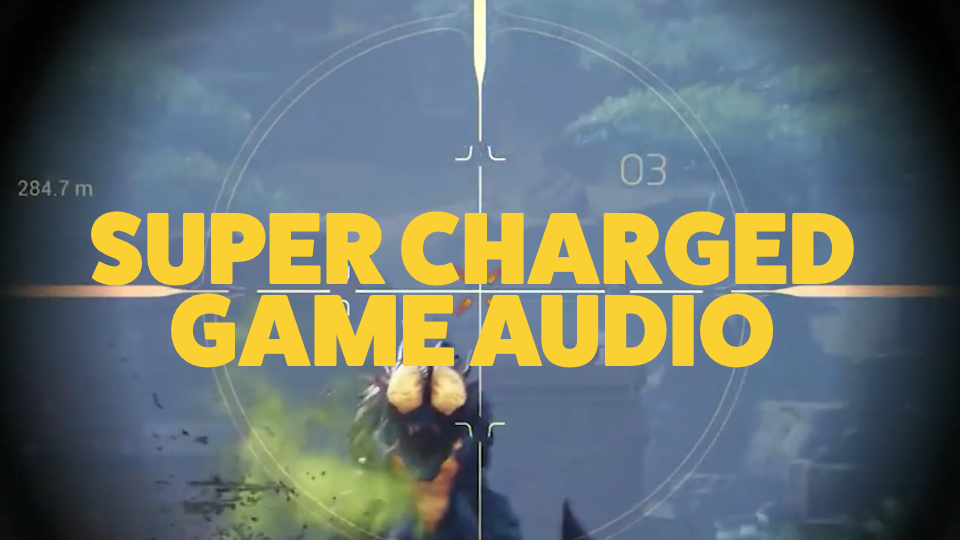
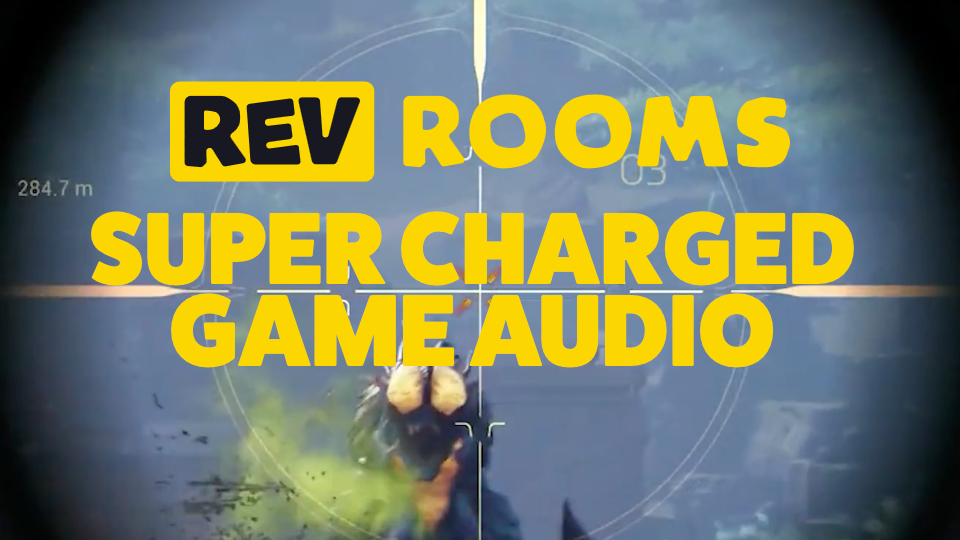
rev rooms poster image

Changed region(s): [[0.0938, 0.3852, 0.9062, 0.6815], [0.1562, 0.1481, 0.8438, 0.3556]]

diff --git a/index.html b/index.html
@@ -79,7 +79,7 @@
 										<!-- Rev Rooms -->
 										<div class="col-6 col-12-small">
 											<section class="box">
-												<a href="/rev-rooms.html" class="image featured"><img src="images/revrooms/revrooms_poster.jpg" alt="" /></a>
+												<a href="/rev-rooms.html" class="image featured"><img src="images/revrooms/revrooms-img.png" alt="" /></a>
 												<h3>Rev Rooms · Brighton, UK</h3>
 												<h1>Lead Software Engineer · Games & Audio</h1>
 												<a>Stack · Unreal Engine, Wwise, Metasounds, Perforce, CI/CD, C++, C#</a>
